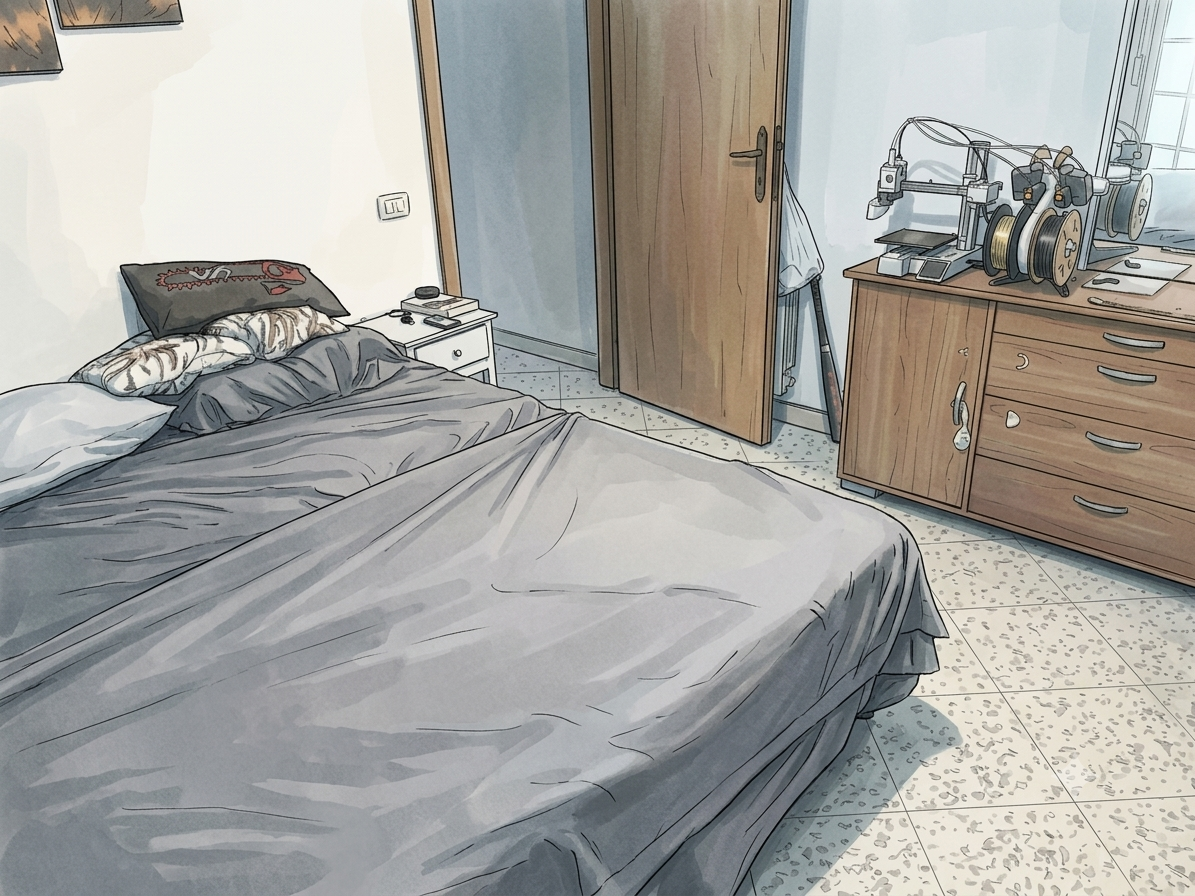
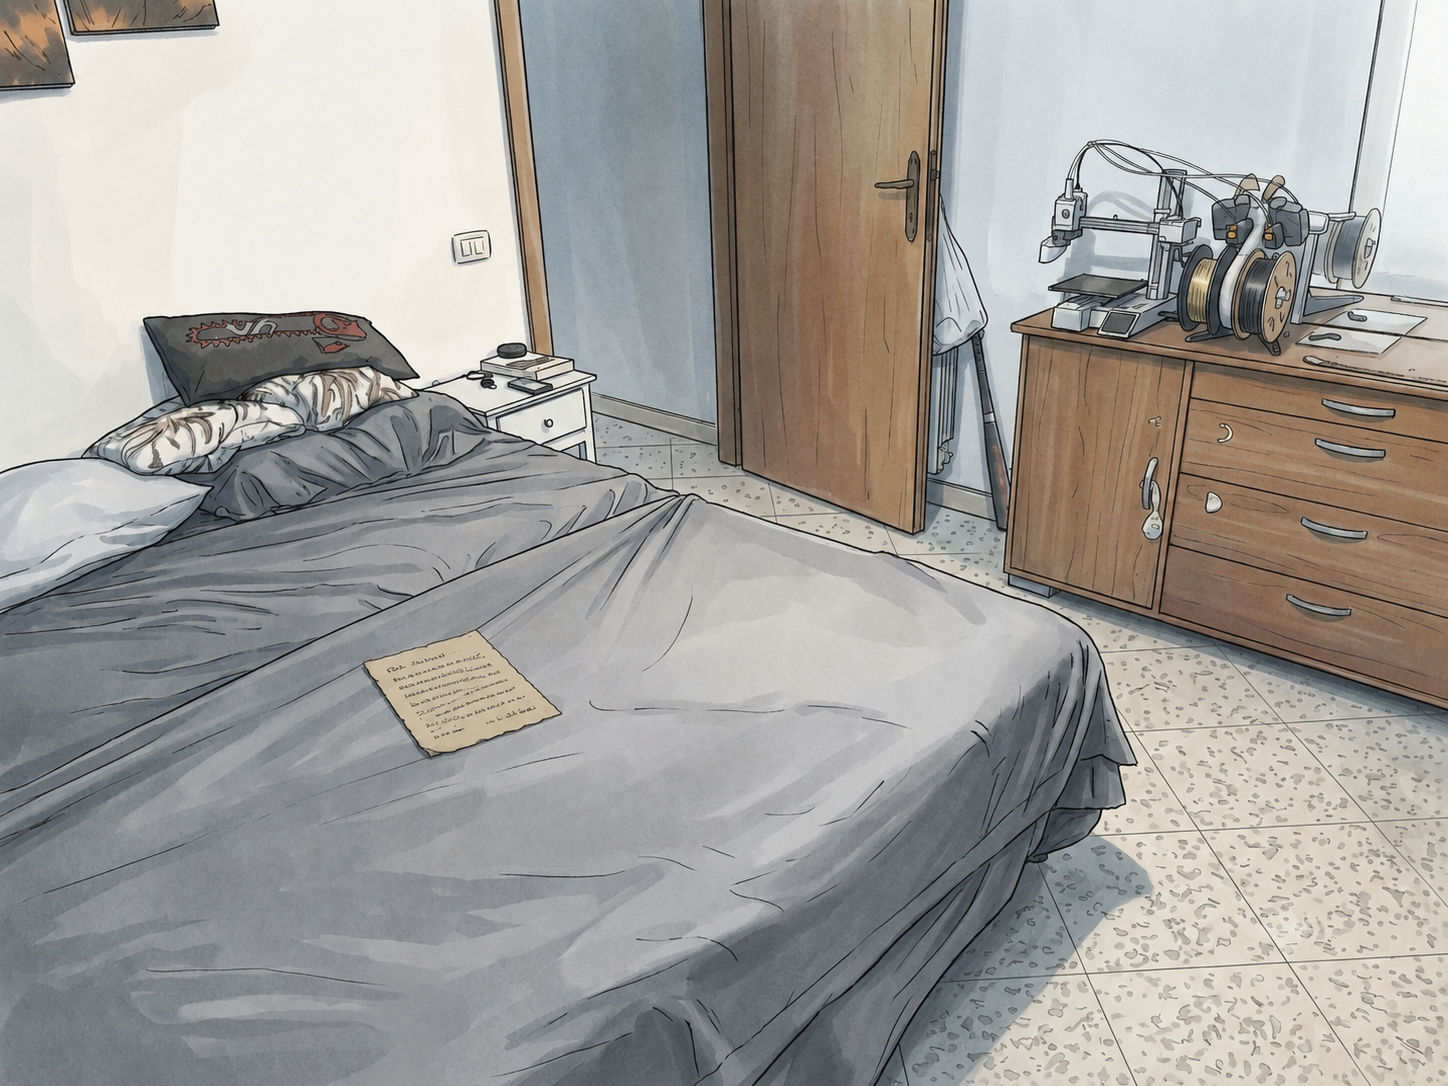
changed images, usata immagine per l'abbraccio finale

diff --git a/src/worlds/mondo2.js b/src/worlds/mondo2.js
@@ -226,8 +226,11 @@ const LEI_FINALE_2 = [
   SG('La sua voce trema, per la prima volta senza difendersi.'),
   L('Non so se sono pronta a crederci davvero.'),
   P('Non serve crederci subito. Basta provarci. Un po’ alla volta — come con l’orologio.'),
-  SG('LEI si alza dalla sedia. Si avvicina. Le due si abbracciano.'),
 ];
+
+// La battuta dell'abbraccio è separata: si gioca sopra l'illustrazione
+// dedicata (scena "abbraccio"), non nell'interno lavanderia.
+const ABBRACCIO_SG = SG('LEI si alza dalla sedia. Si avvicina. Le due si abbracciano.');
 
 // [SEGNAPOSTO] Riflessione di Nox al risveglio — testo da scrivere (Luca).
 const REFLECTION = [
@@ -256,16 +259,20 @@ function openCredits() {
 // risveglio in camera (warm-3) → riflessione → crediti.
 function runFinale() {
   speak(LEI_FINALE_2, () => {
-    fadeBlack(() => {
-      show('hub');
-      setWarmth(3);
-      writeSave();
-      speak(REFLECTION, () => {
-        S.flags.gameDone = true;
+    // L'abbraccio: si passa all'illustrazione dedicata, poi al nero.
+    show('abbraccio');
+    speak([ABBRACCIO_SG], () => {
+      fadeBlack(() => {
+        show('hub');
+        setWarmth(3);
         writeSave();
-        openCredits();
-      });
-    }, 1000);
+        speak(REFLECTION, () => {
+          S.flags.gameDone = true;
+          writeSave();
+          openCredits();
+        });
+      }, 1000);
+    });
   });
 }
 

diff --git a/index.html b/index.html
@@ -578,7 +578,7 @@
           data-depth="0.03"
           style="
             background-color: #b3ada2;
-            background-image: url(&quot;/assets/images/casa/interno-lavanderia.jpeg&quot;);
+            background-image: url(&quot;/assets/images/casa/interno-lavanderia.png&quot;);
           "
         ></div>
         <button
@@ -606,6 +606,18 @@
         >
           <span class="ring"></span><span class="arrow"></span>
         </button>
+      </div>
+
+      <!-- ===== SCENE: ABBRACCIO FINALE (solo illustrazione) ===== -->
+      <div class="scene" data-scene="abbraccio">
+        <div
+          class="layer"
+          data-depth="0.02"
+          style="
+            background-color: #b3ada2;
+            background-image: url(&quot;/assets/images/casa/abbraccio-finale.png&quot;);
+          "
+        ></div>
       </div>
 
       <!-- ===== PARTICLES ===== -->
@@ -797,7 +809,7 @@
         <div
           class="zoombg"
           style="
-            background-image: url(&quot;/assets/images/casa/interno-lavanderia.jpeg&quot;);
+            background-image: url(&quot;/assets/images/casa/interno-lavanderia.png&quot;);
           "
         ></div>
         <div class="scrim"></div>
@@ -940,7 +952,7 @@
         <div class="titleMenu">
           <nav class="menu">
             <button class="menuBtn" id="newGameBtn">Nuova Partita</button>
-            <!--     <button class="menuBtn" id="continueBtn" disabled>Continua</button> -->
+            <button class="menuBtn" id="continueBtn" disabled>Continua</button>
             <button class="menuBtn" id="optionsBtn">Opzioni</button>
           </nav>
           <div class="credit">FRAGMENTS</div>